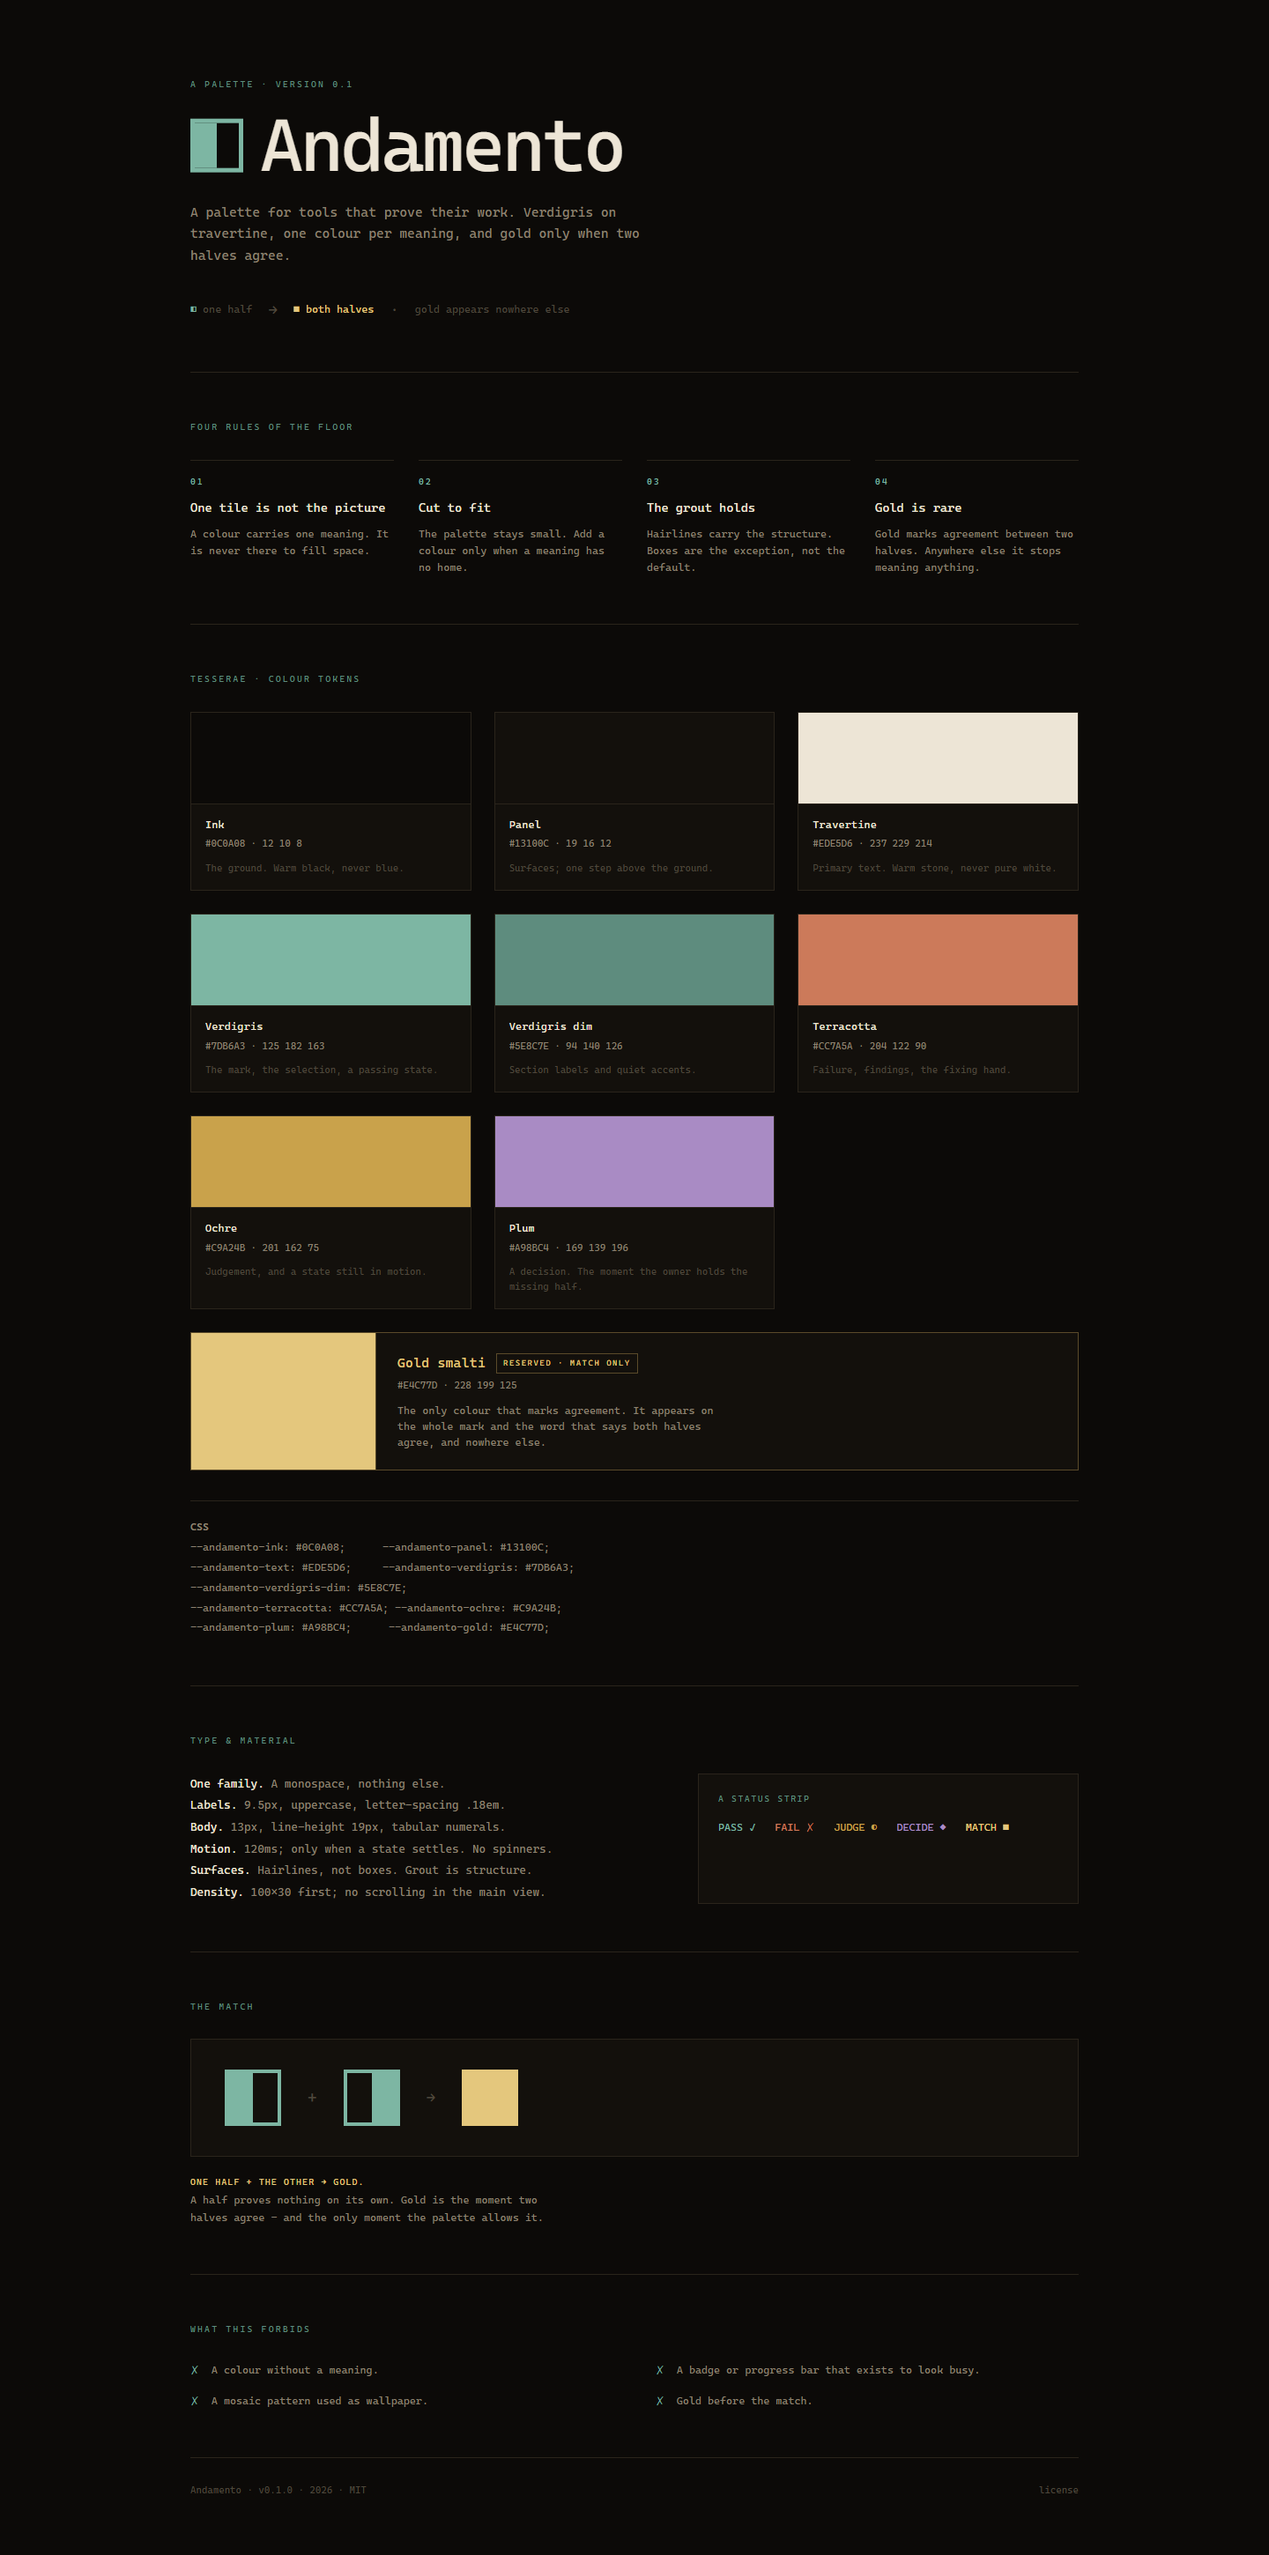
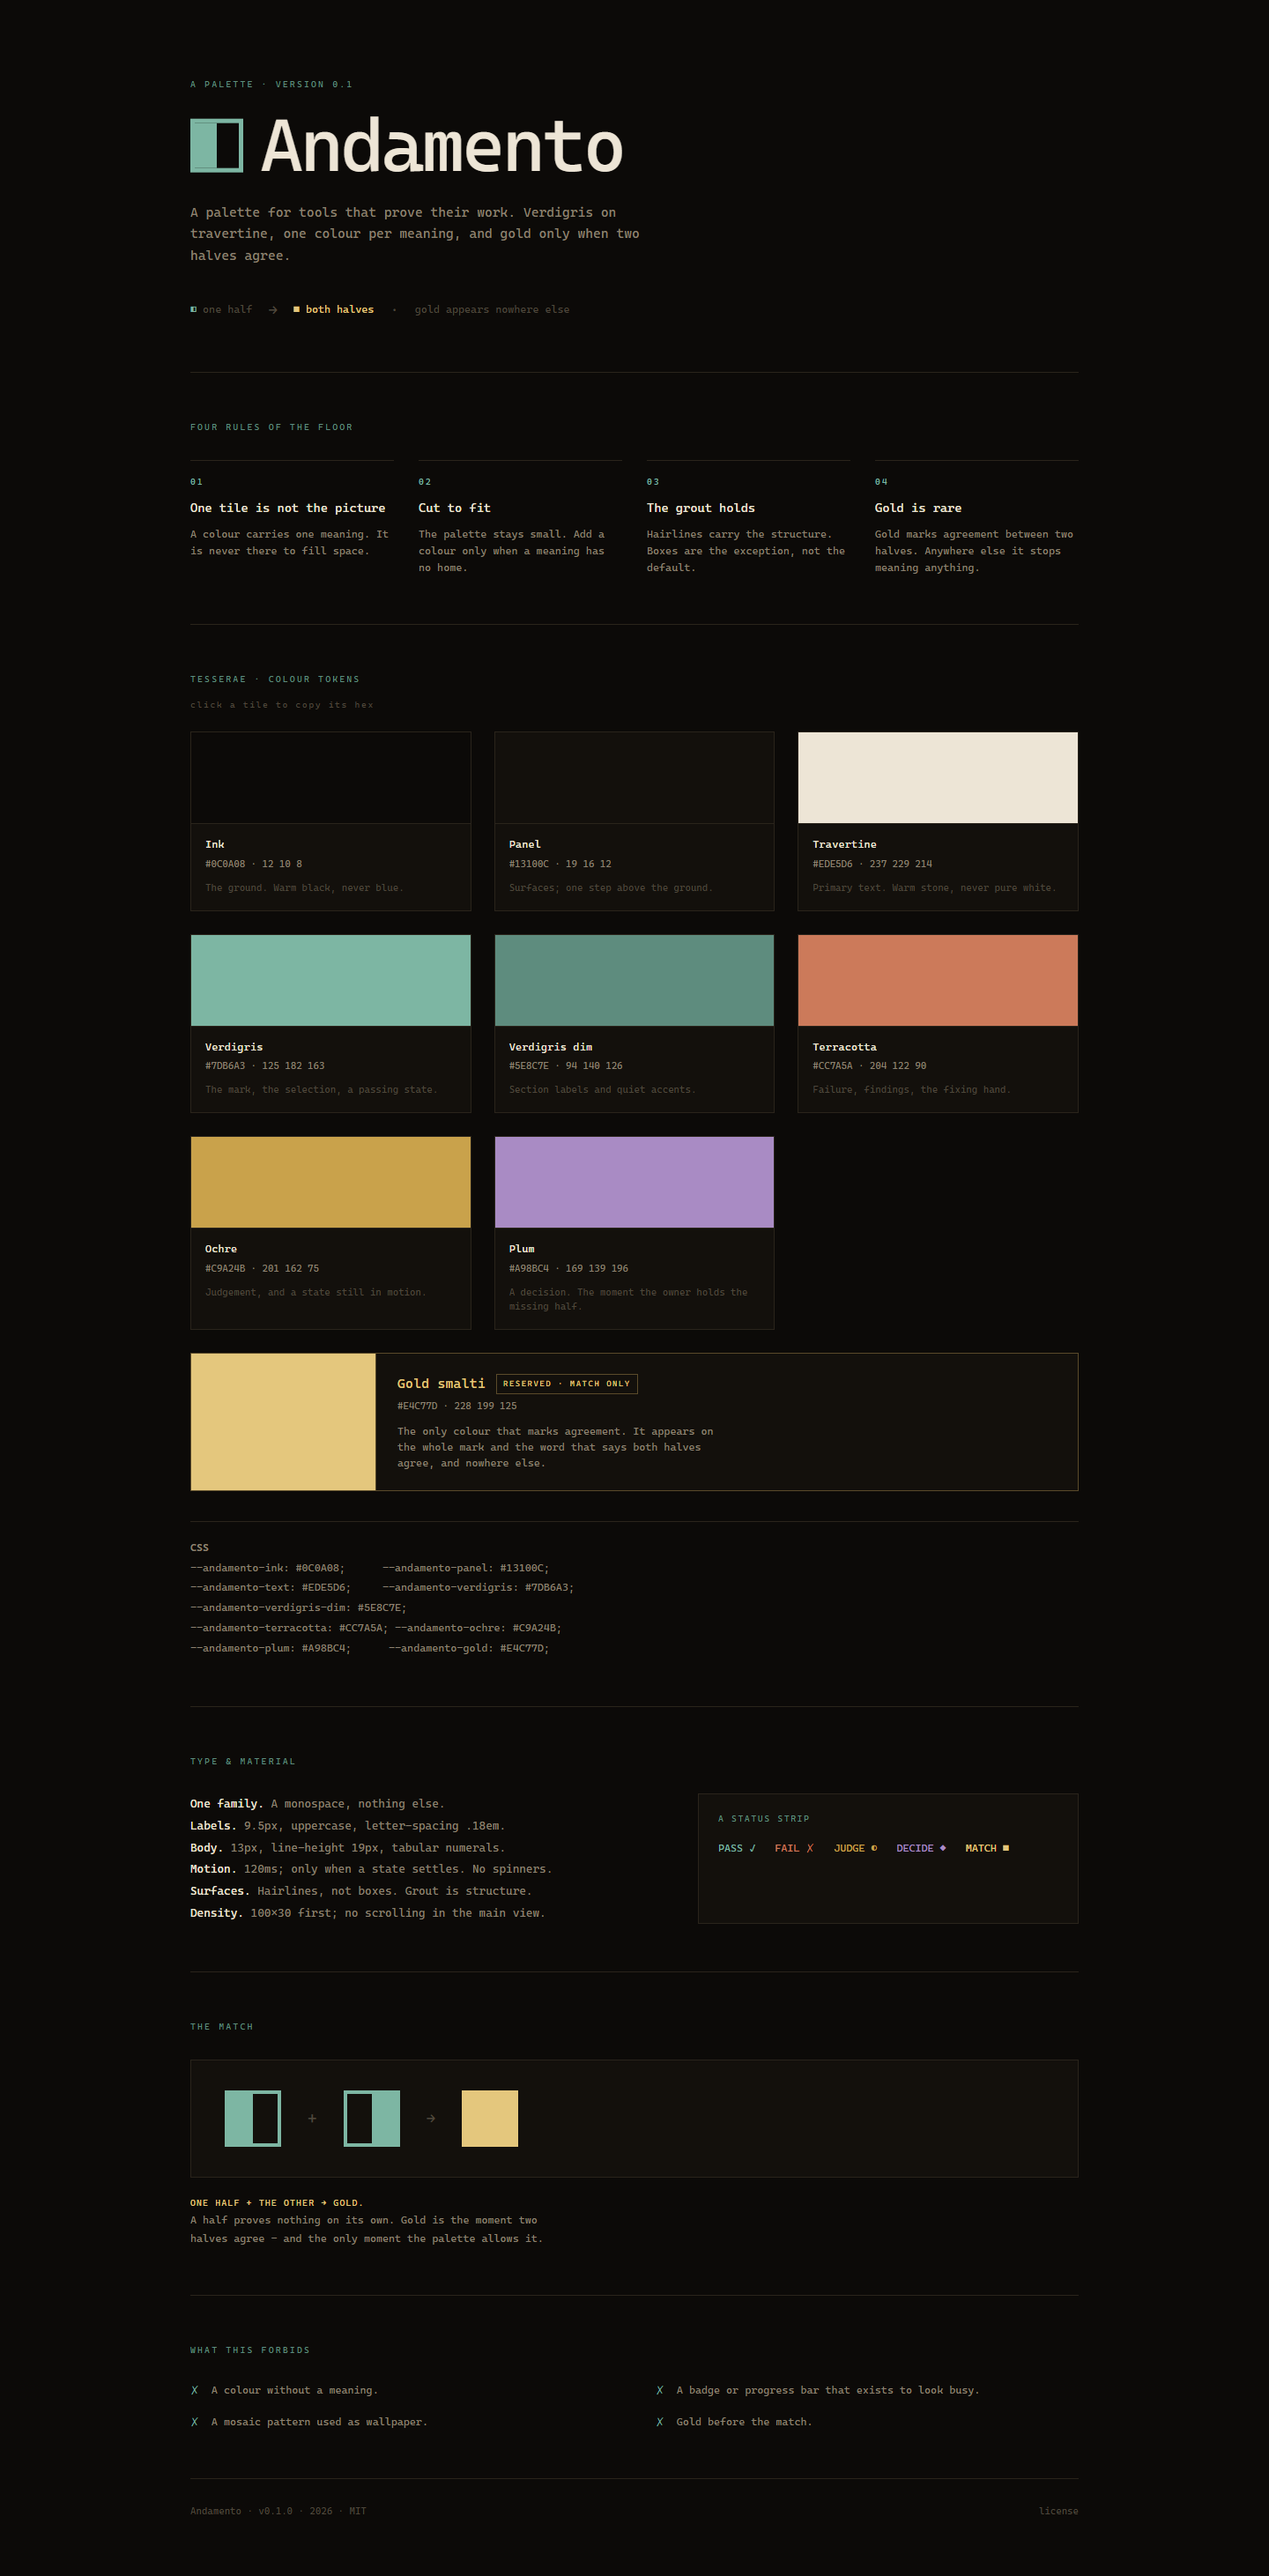
page: click a tile to copy its hex

diff --git a/index.html b/index.html
@@ -41,7 +41,16 @@ h2{font-size:10px;letter-spacing:.22em;color:var(--verdigris-dim);
 .principle h3{font-size:14px;font-weight:400;margin-bottom:8px}
 .principle p{font-size:12px;color:var(--dim);line-height:1.6}
 
+.palette-note{font-size:10px;letter-spacing:.16em;color:var(--faint);margin:-16px 0 22px}
 .palette{display:grid;grid-template-columns:repeat(3,1fr);gap:26px}
+.swatch{position:relative;cursor:pointer}
+.swatch:hover{border-color:var(--verdigris-dim)}
+.swatch:focus-visible{outline:2px solid var(--verdigris);outline-offset:2px}
+.swatch.copied::after{content:"COPIED";position:absolute;top:10px;right:10px;
+  font-size:9px;letter-spacing:.16em;color:var(--verdigris);background:var(--ink);
+  border:1px solid var(--verdigris);padding:2px 5px;pointer-events:none}
+.sr-only{position:absolute;width:1px;height:1px;padding:0;margin:-1px;overflow:hidden;
+  clip:rect(0,0,0,0);white-space:nowrap;border:0}
 .swatch{border:1px solid var(--line);background:var(--panel)}
 .chip{height:104px;border-bottom:1px solid var(--line)}
 .swatch .body{padding:14px 16px 16px}
@@ -120,6 +129,7 @@ footer a{color:var(--faint);text-decoration:none}
 
   <section>
     <h2>TESSERAE · COLOUR TOKENS</h2>
+    <div class="palette-note">click a tile to copy its hex</div>
     <div class="palette">
       <div class="swatch"><div class="chip" style="background:#0C0A08"></div>
         <div class="body"><div class="name">Ink</div><div class="hex">#0C0A08 · 12 10 8</div>
@@ -207,6 +217,60 @@ footer a{color:var(--faint);text-decoration:none}
     </div>
   </section>
 
+  <div id="copy-status" class="sr-only" aria-live="polite"></div>
+  <script>
+  (() => {
+    const hexOf = (card) => {
+      const chip = card.querySelector(".chip");
+      const match = chip && (chip.getAttribute("style") || "").match(/#[0-9a-fA-F]{6}/);
+      return match ? match[0].toUpperCase() : "";
+    };
+    const copy = async (text) => {
+      try {
+        await navigator.clipboard.writeText(text);
+        return true;
+      } catch {
+        const field = document.createElement("textarea");
+        field.value = text;
+        field.setAttribute("readonly", "");
+        field.style.position = "fixed";
+        field.style.left = "-9999px";
+        document.body.appendChild(field);
+        field.select();
+        let ok = false;
+        try { ok = document.execCommand("copy"); } catch { ok = false; }
+        field.remove();
+        return ok;
+      }
+    };
+    document.querySelectorAll(".swatch").forEach((card) => {
+      const hex = hexOf(card);
+      if (!hex) return;
+      card.dataset.hex = hex;
+      card.tabIndex = 0;
+      card.setAttribute("role", "button");
+      card.setAttribute("aria-label", "Copy " + hex);
+      const activate = async () => {
+        const ok = await copy(hex);
+        const status = document.querySelector("#copy-status");
+        if (ok) {
+          card.classList.add("copied");
+          if (status) status.textContent = hex + " copied";
+          setTimeout(() => card.classList.remove("copied"), 1100);
+        } else if (status) {
+          status.textContent = "Could not copy " + hex;
+        }
+      };
+      card.addEventListener("click", activate);
+      card.addEventListener("keydown", (event) => {
+        if (event.key === "Enter" || event.key === " ") {
+          event.preventDefault();
+          activate();
+        }
+      });
+    });
+  })();
+  </script>
   <footer>
     <span>Andamento · v0.1.0 · 2026 · MIT</span>
     <span><a href="LICENSE">license</a></span>

diff --git a/README.md b/README.md
@@ -29,6 +29,9 @@ when two halves agree.
 
 Or take the values from `andamento.tokens.json`. No dependencies, no build.
 
+Click any tile on the [page](https://stfade.github.io/andamento/) to copy its hex
+(Enter or Space works from the keyboard).
+
 ```html
 <link rel="stylesheet" href="andamento.css">
 ```
